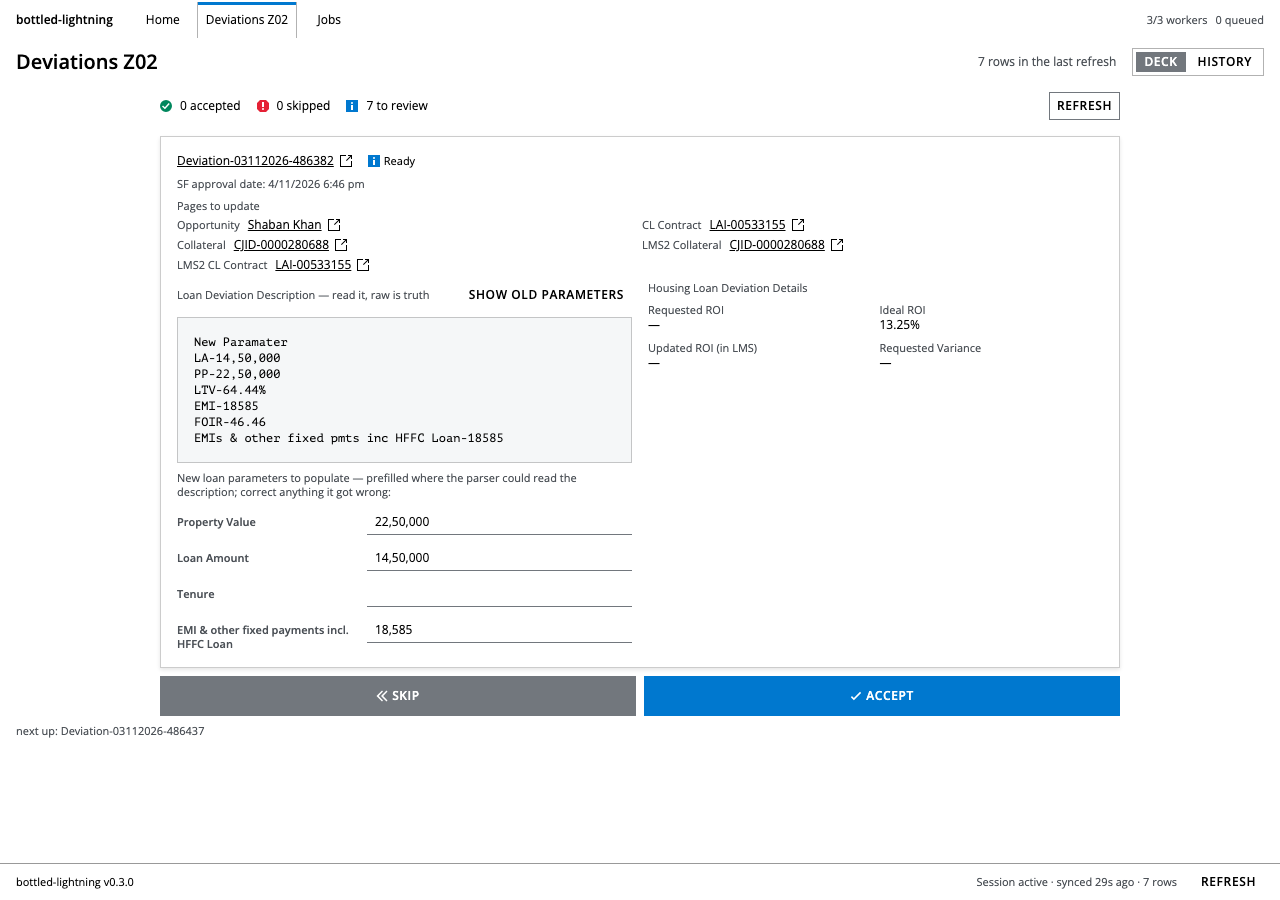
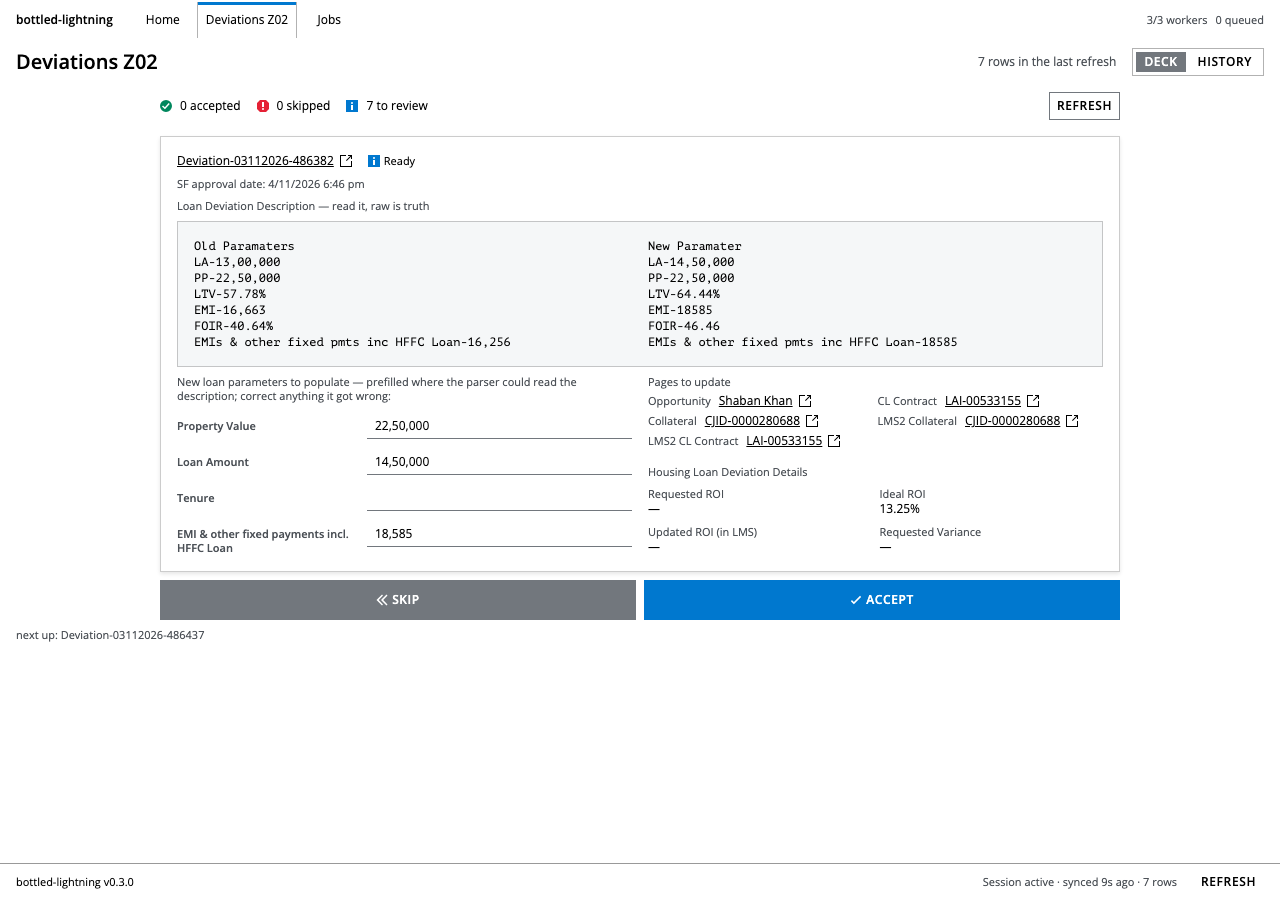
Show the whole description together: Old and New side by side
The toggle was the wrong compromise. Remove it; the description renders in full
in a bordered Salt card, with the Old and New parameter blocks side by side on
wide screens and stacked below md. No internal scroll, no hidden text.

The card is laid out as:
- full-width description (Old | New)
- fields (left) and refs + ROI (right) in a two-column grid below

At 1280x800 the deck still fits with no page scroll (doc 800/800, description
144/144); at 390 the description stacks and the page scrolls vertically, with
both blocks visible and no horizontal overflow.

Docs: FR v5.10 / frontend design v3.7; screenshots refreshed.

diff --git a/frontend/src/components/DecisionCard.tsx b/frontend/src/components/DecisionCard.tsx
@@ -6,7 +6,6 @@
  */
 
 import type { JSX } from 'react'
-import { useState } from 'react'
 import {
   Card,
   CardContent,
@@ -15,7 +14,6 @@ import {
   FormFieldLabel,
   GridLayout,
   Input,
-  Button,
   Link,
   StackLayout,
   Text,
@@ -42,10 +40,12 @@ const ROI_FIELDS: { key: string; label: string }[] = [
   { key: 'requested_variance', label: 'Requested Variance' },
 ]
 
-function splitParameters(text: string): { visible: string; hasOld: boolean } {
+function splitParameters(text: string): { old: string; new: string } | null {
   const match = text.match(/(^|\n)(\s*New\s+Param[\s\S]*)$/i)
-  if (match === null) return { visible: text, hasOld: false }
-  return { visible: match[2].trim(), hasOld: text.slice(0, match.index).trim().length > 0 }
+  if (match === null) return null
+  const old = text.slice(0, match.index).trim()
+  if (!old) return null
+  return { old, new: match[2].trim() }
 }
 
 interface Props {
@@ -69,7 +69,6 @@ export function DecisionCard({
   onField,
 }: Props): JSX.Element {
   const ordered = orderedFields(fields)
-  const [showFullDescription, setShowFullDescription] = useState(false)
   const description = detail?.attributes.description ?? null
   const descriptionParts = description === null ? null : splitParameters(description)
   const recordHref = row.recordUrl ? absoluteUrl(row.recordUrl, listUrl) : null
@@ -106,57 +105,32 @@ export function DecisionCard({
             </Text>
           ) : null}
 
-          {refs.length > 0 ? (
-            <StackLayout gap={0.5}>
-              <Text color="secondary" styleAs="label">
-                Pages to update
-              </Text>
-              <GridLayout columns={{ xs: 1, sm: 2 }} gap={0.5}>
-                {refs.map((ref) => (
-                  <FlexLayout key={ref.kind} gap={1} align="center">
-                    <Text styleAs="label" color="secondary">
-                      {REF_LABELS[ref.kind] ?? ref.kind}
-                    </Text>
-                    <Link href={ref.url} target="_blank">
-                      {ref.name}
-                    </Link>
-                  </FlexLayout>
-                ))}
+          <Text color="secondary" styleAs="label">
+            Loan Deviation Description — read it, raw is truth
+          </Text>
+          <Card variant="secondary" elevation="flat" className="deck-description">
+            {detail === null ? (
+              <Text color="secondary">loading description…</Text>
+            ) : description === null ? (
+              <Text color="secondary">no description picked yet — run an extraction first</Text>
+            ) : descriptionParts ? (
+              <GridLayout columns={{ xs: 1, md: 2 }} gap={2}>
+                <Text styleAs="code" className="deck-description-text">
+                  {descriptionParts.old}
+                </Text>
+                <Text styleAs="code" className="deck-description-text">
+                  {descriptionParts.new}
+                </Text>
               </GridLayout>
-            </StackLayout>
-          ) : null}
+            ) : (
+              <Text styleAs="code" className="deck-description-text">
+                {description}
+              </Text>
+            )}
+          </Card>
 
           <GridLayout columns={{ xs: 1, lg: 2 }} gap={2}>
             <StackLayout gap={1}>
-              <FlexLayout justify="space-between" align="center" gap={1} wrap>
-                <Text color="secondary" styleAs="label">
-                  Loan Deviation Description — read it, raw is truth
-                </Text>
-                {descriptionParts?.hasOld ? (
-                  <Button
-                    appearance="transparent"
-                    onClick={() => setShowFullDescription((current) => !current)}
-                  >
-                    {showFullDescription ? 'Show new only' : 'Show old parameters'}
-                  </Button>
-                ) : null}
-              </FlexLayout>
-              <Card
-                variant="secondary"
-                elevation="flat"
-                className={`deck-description${showFullDescription ? ' deck-description-full' : ''}`}
-              >
-                {detail === null ? (
-                  <Text color="secondary">loading description…</Text>
-                ) : description && descriptionParts ? (
-                  <Text styleAs="code" className="deck-description-text">
-                    {showFullDescription ? description : descriptionParts.visible}
-                  </Text>
-                ) : (
-                  <Text color="secondary">no description picked yet — run an extraction first</Text>
-                )}
-              </Card>
-
               <Text color="secondary" styleAs="label">
                 New loan parameters to populate — prefilled where the parser could read the
                 description; correct anything it got wrong:
@@ -184,20 +158,42 @@ export function DecisionCard({
               </StackLayout>
             </StackLayout>
 
-            <StackLayout gap={1}>
-              <Text color="secondary" styleAs="label">
-                Housing Loan Deviation Details
-              </Text>
-              <GridLayout columns={{ xs: 1, sm: 2 }} gap={1}>
-                {ROI_FIELDS.map((field) => (
-                  <StackLayout gap={0} key={field.key}>
-                    <Text color="secondary" styleAs="label">
-                      {field.label}
-                    </Text>
-                    <Text>{detail?.attributes[field.key] ?? '—'}</Text>
-                  </StackLayout>
-                ))}
-              </GridLayout>
+            <StackLayout gap={2}>
+              {refs.length > 0 ? (
+                <StackLayout gap={0.5}>
+                  <Text color="secondary" styleAs="label">
+                    Pages to update
+                  </Text>
+                  <GridLayout columns={{ xs: 1, sm: 2 }} gap={0.5}>
+                    {refs.map((ref) => (
+                      <FlexLayout key={ref.kind} gap={1} align="center">
+                        <Text styleAs="label" color="secondary">
+                          {REF_LABELS[ref.kind] ?? ref.kind}
+                        </Text>
+                        <Link href={ref.url} target="_blank">
+                          {ref.name}
+                        </Link>
+                      </FlexLayout>
+                    ))}
+                  </GridLayout>
+                </StackLayout>
+              ) : null}
+
+              <StackLayout gap={1}>
+                <Text color="secondary" styleAs="label">
+                  Housing Loan Deviation Details
+                </Text>
+                <GridLayout columns={{ xs: 1, sm: 2 }} gap={1}>
+                  {ROI_FIELDS.map((field) => (
+                    <StackLayout gap={0} key={field.key}>
+                      <Text color="secondary" styleAs="label">
+                        {field.label}
+                      </Text>
+                      <Text>{detail?.attributes[field.key] ?? '—'}</Text>
+                    </StackLayout>
+                  ))}
+                </GridLayout>
+              </StackLayout>
             </StackLayout>
           </GridLayout>
         </StackLayout>

diff --git a/docs/FR-deviations.md b/docs/FR-deviations.md
@@ -3,7 +3,7 @@
 | | |
 |---|---|
 | **Status** | Draft for review |
-| **Version** | v5.9 |
+| **Version** | v5.10 |
 | **Date** | 2026-11-04 |
 | **Scope** | Loan deviations workflow only |
 | **Supersedes** | The pre-refactor behaviour in `app/deviations*`, `app/sync.py`, `app/jobs.py` |
@@ -347,11 +347,11 @@ Automate the extraction, review and update of loan deviations from Salesforce, a
   so missing or unparsed values are visible and correctable before a decision. Missing
   values are not an error and carry no warning: only one or two values may need an
   update. Accept persists the card's values as proposals (FR-10.2).
-- **FR-10.11** The raw description is shown compactly: the **New** parameter block is
-  visible by default in a bounded, bordered panel; the Old block is behind an explicit
-  toggle. At 1280×800 the deck (header, card and actions) fits without page scrolling;
-  the description itself never requires scrolling while collapsed. On narrow screens
-  the card stacks vertically and the page may scroll.
+- **FR-10.11** The entire raw description is visible together: Old and New parameter
+  blocks render side by side in a bordered Salt card (stacked on narrow screens). There
+  is no toggle and no internal scroll. At 1280×800 the deck (header, card and actions)
+  fits without page scrolling; below that width the card stacks and the page scrolls
+  vertically.
 - **FR-10.11** Decisions never gate sync or extraction. An accepted or rejected item is
   still reconciled with the list view like any other.
 
@@ -412,6 +412,10 @@ absence while a `SUBMIT` lease was held.
   submit action? (Default: explicit action; acceptance only queues.) | FR-10.6 |
 
 ## Appendix C — Change log
+
+- **v5.10** — the description toggle is gone: Old and New blocks are shown together,
+  side by side on wide screens, with no internal scroll; the deck still fits 1280×800.
+  Fields and refs/ROI form the two columns below it.
 
 - **v5.9** — the deck is two columns on large screens (description + fields | refs +
   ROI), the description shows only the New block by default with the Old block behind a

diff --git a/docs/frontend-design-deviations.md b/docs/frontend-design-deviations.md
@@ -105,7 +105,7 @@ accepted/skipped/to-review tallies, then Skip and Accept. The header keeps the
 | ready | record link + status, approval date, *Pages to update* (Opportunity, CL, collateral, LMS2), raw description panel, ROI grid, four prefilled editable values | Skip, Accept |
 | needs_review | same card + the failure reason above the description | Skip, Accept |
 | partial values | inputs not present in the New block are empty; no warning | Accept allowed (FR-10.10) |
-| description | New parameter block only in a bordered, capped panel; **Show old parameters** reveals the raw text | decide |
+| description | entire raw text in a bordered Salt card; Old and New side by side (stacked narrow), no toggle or internal scroll | decide |
 | editing a value | input shows Indian grouping (amounts) or months; the draft is local until Accept | Skip discards the draft |
 | decision in flight | Skip/Accept disabled until the PATCH + decision finish | — |
 | decision failed | card stays, the server message appears above it | Retry |
@@ -295,9 +295,9 @@ Rules:
   CSS is limited to layout, responsive column hiding and motion.
 - **High density.** Page padding 10/16 px, headings 20/17/14 px, data text 11–12 px,
   layout gaps 8–16 px (not 24–32), table cells 4–5 px, card padding 10–12 px, the deck
-  description block in a bordered Salt Card, capped at 180 px. Only the New parameter
-  block is shown by default; **Show old parameters** reveals the raw text (and the page
-  may scroll). The collapsed block never scrolls.
+  description block in a bordered Salt Card, full width and uncapped: Old and New blocks
+  side by side (stacked below `md`), always visible together and never internally
+  scrollable.
 - **No horizontal page scrolling at 390/768/1280 px.** The shell is border-box; filters
   wrap; the list drops to Status + Deviation at 600 px instead of scrolling sideways.
   Long values wrap (`overflow-wrap: anywhere`), never widen the page.
